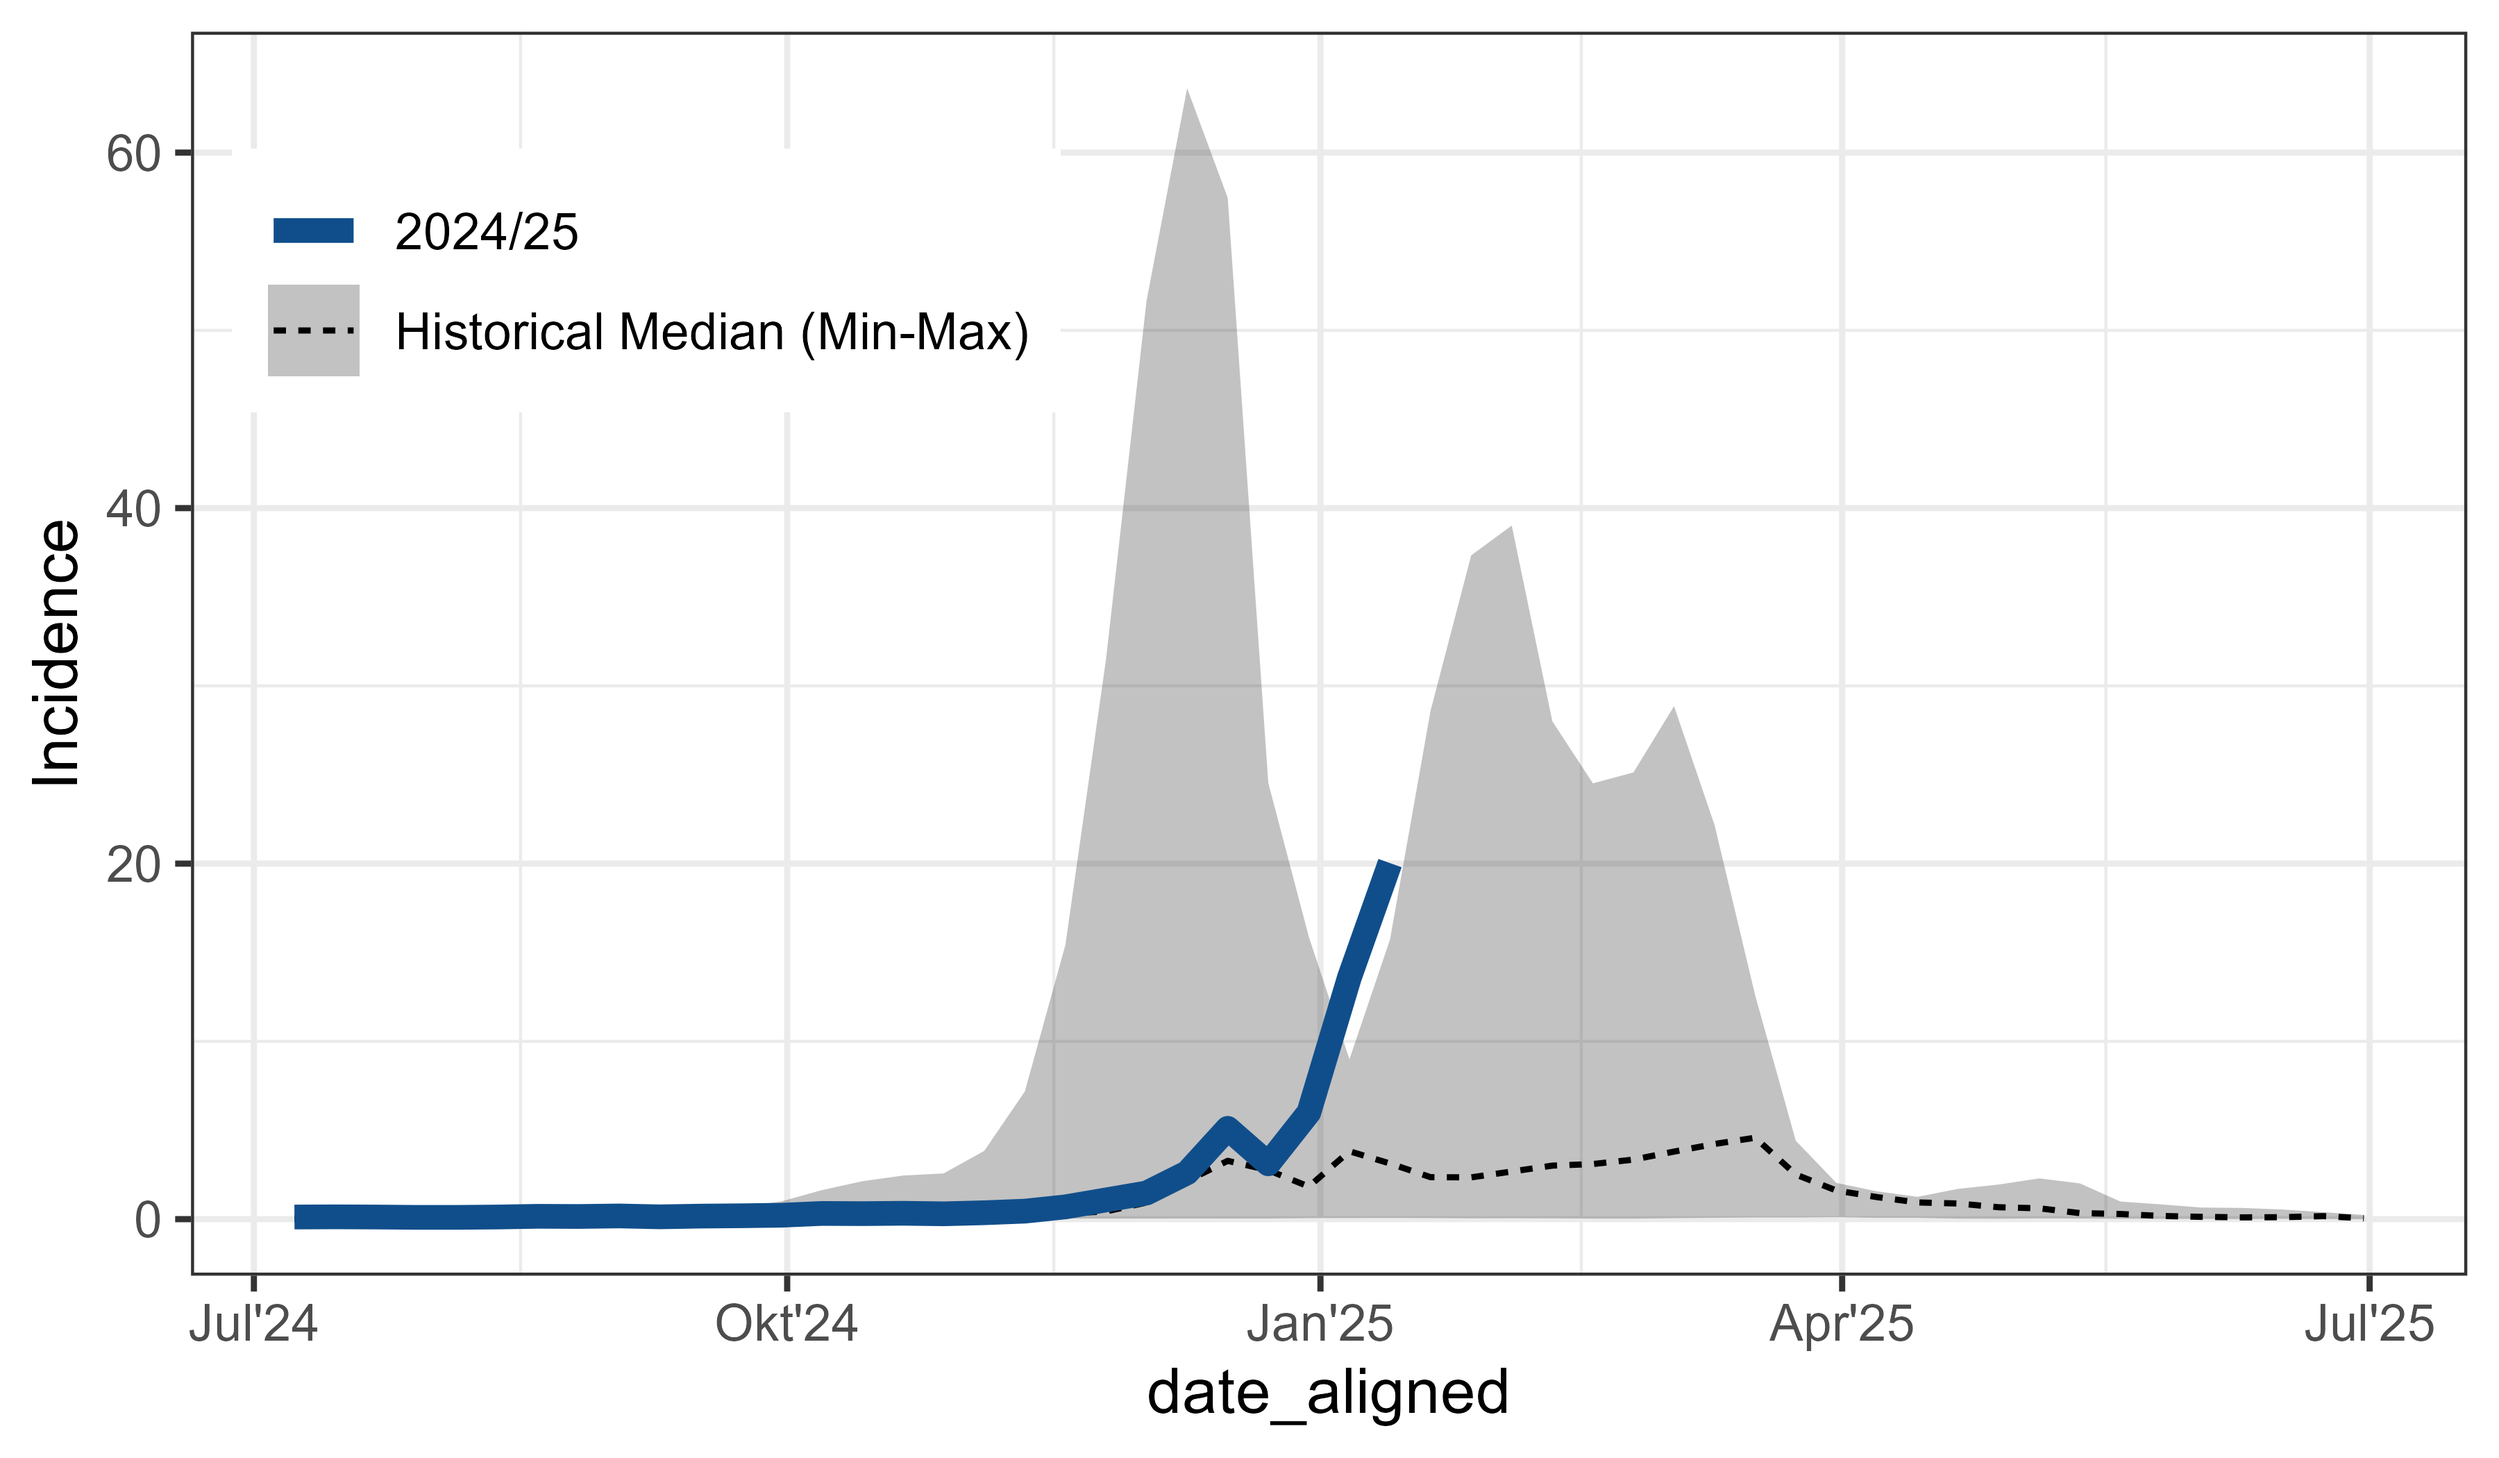
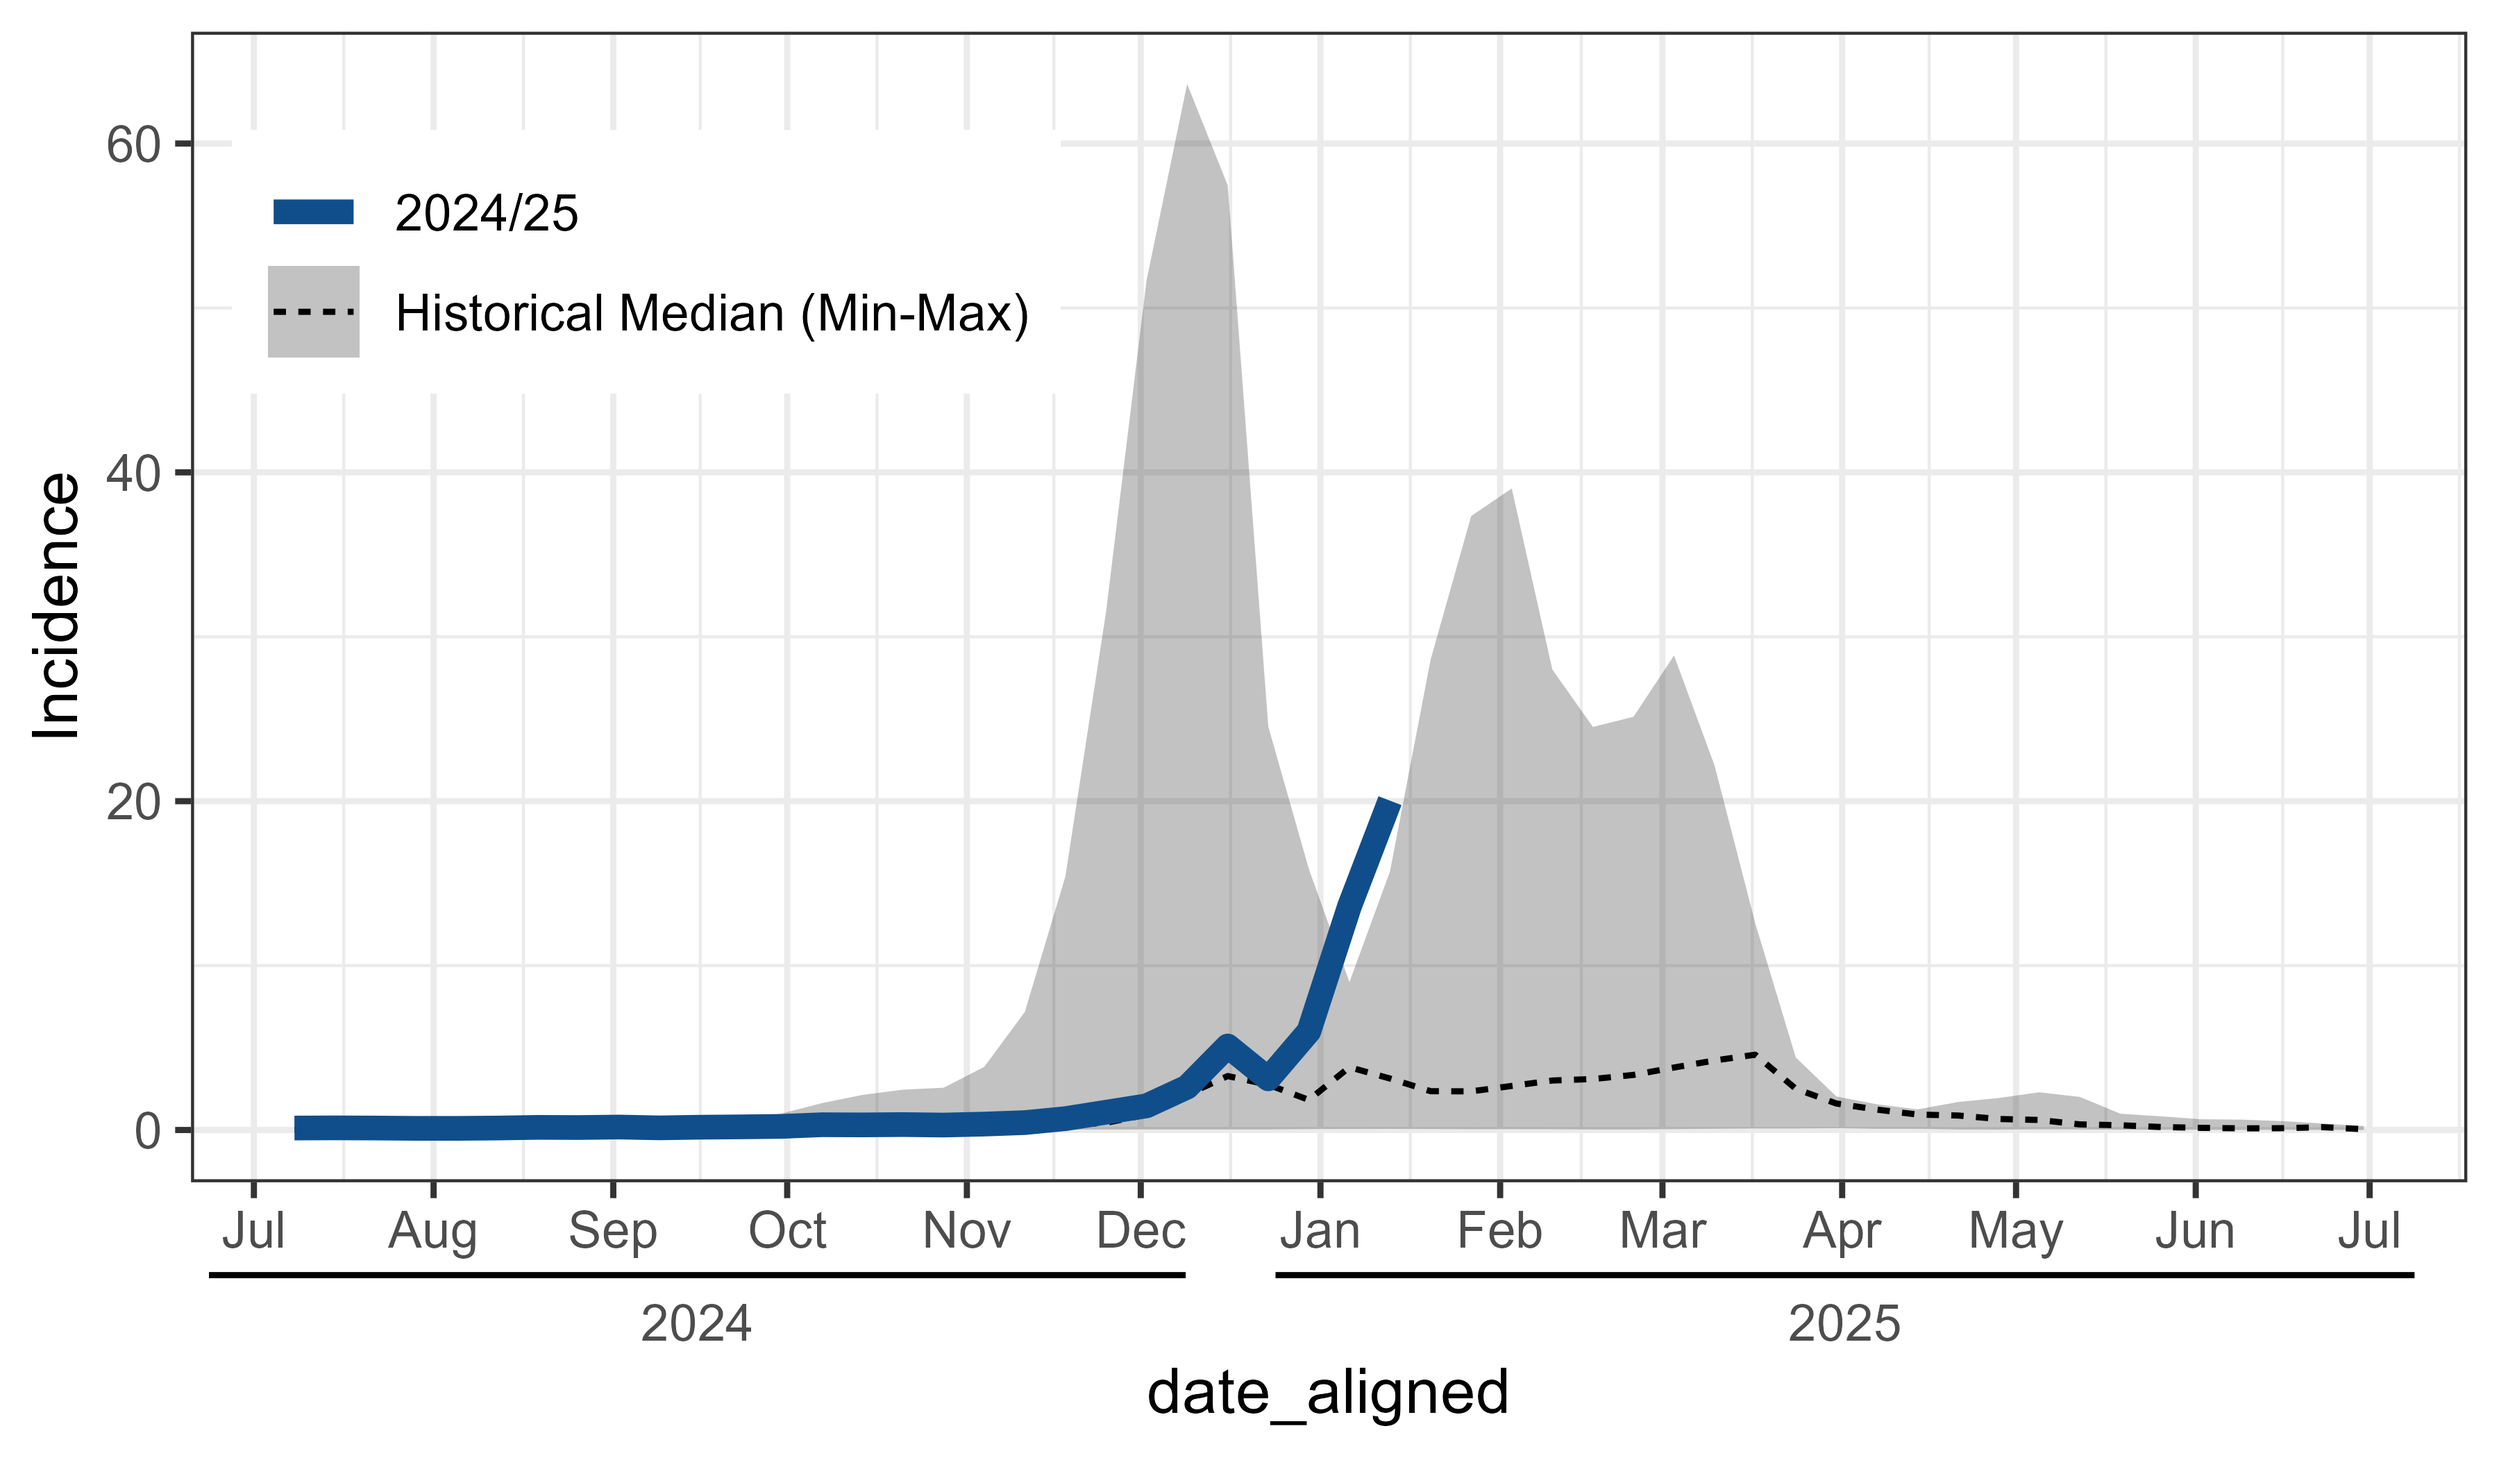
Prepare next release

diff --git a/README.md b/README.md
@@ -10,31 +10,36 @@
 
 ## Key Features
 
--   `geom_epicurve()`: A ggplot geom for plotting epicurves
+-   `geom_epicurve()`: A ggplot geom for plotting epicurves.
+    -   `stat_bin_date()`: Date interval (week, month etc.) based binning of case numbers with perfect alignment with e.g. reporting week.
+    -   `geom_epicurve_text()` and `geom_epicurve_point()`: New geoms to easily add text annotations or points to cases in epidemic curves.
+    -   `geom_vline_year()`: Automatically detects the turn of the year(s) from the date or datetime axis and draws a vertical line.
+    -   `scale_y_cases_5er()`: For better (case) count axis breaks and positioning.
 
-    -   including `stat_bin_date()` for date interval (week, month etc.) based binning of case numbers with perfect alignment with e.g. reporting week.
-    -   including `scale_y_cases_5er()` for better (case) count axis breaks and positioning.
-    -   including `geom_vline_year()`, which automatically detects the turn of the year(s) from the date or datetime axis and draws a vertical line.
+-   `bin_by_date()`: A `tidyverse`-compatible function for flexible date-based aggregation (binning). This function was previously internal.
 
 -   `align_dates_seasonal()`: Align surveillance data for seasonal plots (e.g. flu season).
 
--   `create_agegroups()`: Create reproducible age groups with highly customizable labels.
-
 -   `geom_bar_diverging()`: A geom for diverging bar charts, which can be used to plot population pyramids, likert scales (sentiment analyses) and other data with opposing categories, like vaccination status or imported vs autochthonous (local) infections.
-
     -   `stat_diverging()` for easy labeling of these charts with category counts/percentages or total counts/percentages
     -   `scale_x_continuous_diverging()` for symmetric diverging scales
     -   `geom_area_diverging()` for continuous variables (e.g. changes over time)
 
 -   `geom_epigantt()`: A geom for epigantt plots. Helpful to visualize overlapping time intervals for contact tracing (e.g. hospital outbreaks).
-
     -   including `scale_y_discrete_reverse()` which reverses the order of the categorical scale.
+
+-   More `ggplot2` add-ons: 
+    -   `guide_axis_nested_date()`: An axis guide for creating nested date labels for hierarchical time periods (e.g., year > month > day).
+    -   `geom_label_last_value()`: A geom for labeling the last value of a time series (e.g. `geom_line()`). 
+    -   `label_power10()`: A `ggplot2`-compatible labeling function to format numbers in scientific notation with powers of 10 (e.g., $2 \times 10^5$).
 
 -   `theme_mod_` functions for ggplot2 theme modifications:
 
     -   `theme_mod_legend_position()` etc. to adjust the legend positions.
     -   `theme_mod_rotate_x_axis_labels()` etc. for rotating x axis labels.
     -   `theme_mod_remove_minor_grid()` etc. to remove the minor grid lines (x, y or both) or all grind lines.
+
+-   `create_agegroups()`: Create reproducible age groups with highly customizable labels.
 
 -   Additional utilities: `geometric_mean()`, `expand_counts()`, and more
 
@@ -87,7 +92,8 @@ ggplot(df_flu_aligned, aes(x = date_aligned, y = Incidence)) +
   geom_line(
     aes(linetype = "2024/25"), data = . %>% filter(current_season), colour = "dodgerblue4", linewidth = 2) +
   labs(linetype = NULL) +
-  scale_x_date(date_labels = "%b'%y") +
+  scale_x_date(date_breaks = "month", date_labels = "%b'%Y", 
+               guide = guide_axis_nested_date()) +
   theme_bw() +
   theme_mod_legend_position(position.inside = c(0.2, 0.8))
 ```

diff --git a/NEWS.md b/NEWS.md
@@ -1,3 +1,22 @@
+# ggsurveillance 0.5.0
+
+## New Features
+
+-   `bin_by_date()`: New `tidyverse`-compatible function for flexible date-based aggregation (binning). This function was previously internal to `geom_epicurve()` and `stat_bin_date()`.
+    -   It includes an improved `fill_gaps` argument to automatically fill time series gaps with 0s.
+-   `guide_axis_nested_date()`: New axis guide for creating nested date labels for hierarchical time periods (e.g., year > month > day). This feature is powered by the `{legendry}` package.
+-   `label_power10()`: New `ggplot2`-compatible labeling function to format numbers in scientific notation with powers of 10 (e.g., $2 \times 10^5$).
+-   `geom_epicurve_text()` and `geom_epicurve_point()`: New geoms to easily add text annotations or points to cases in epidemic curves.
+
+## Improvements
+
+-   Extensive code refactoring for improved maintainability and performance
+-   Multiple bug fixes and stability improvements across the package
+
+## Breaking Changes
+
+-   `scale_y_cases_5er()` now defaults to starting its scale at 0, which is more intuitive for case count visualizations. The previous behaviour can be restored by setting `limits = NULL`.
+
 # ggsurveillance 0.4.0
 
 -   `geom_bar_diverging()` for diverging bar charts, including:
